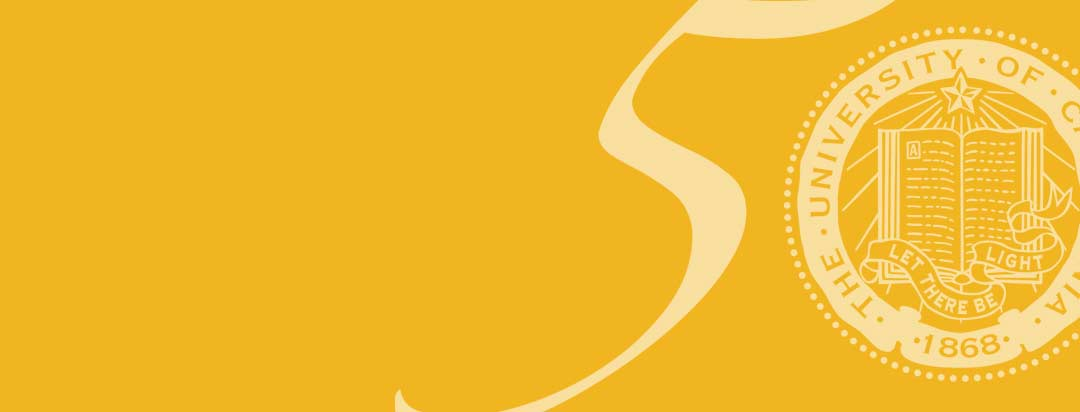
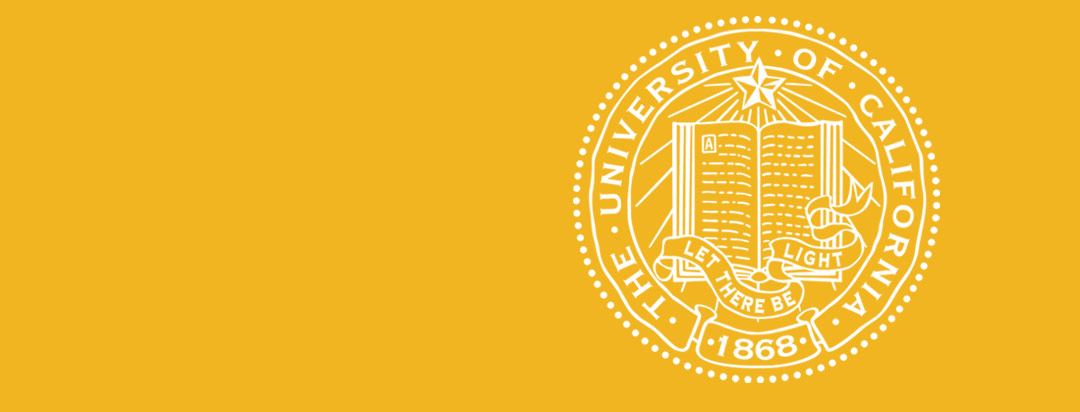
Fixed 50th seal background

Changed region(s): [[0.4583, 0.0, 1.0, 1.0], [0.3667, 0.9612, 0.3972, 1.0]]

diff --git a/source/_layouts/full-nophoto.html b/source/_layouts/full-nophoto.html
@@ -32,7 +32,7 @@
   }
   @media screen and (min-width: 60em) {
     .page-transition {
-      background: url("{{ page.img }}");
+      background: url("{% asset_path seal.svg %}");
       background-size: cover;
       -webkit-background-size: cover;
       -moz-background-size: cover;
